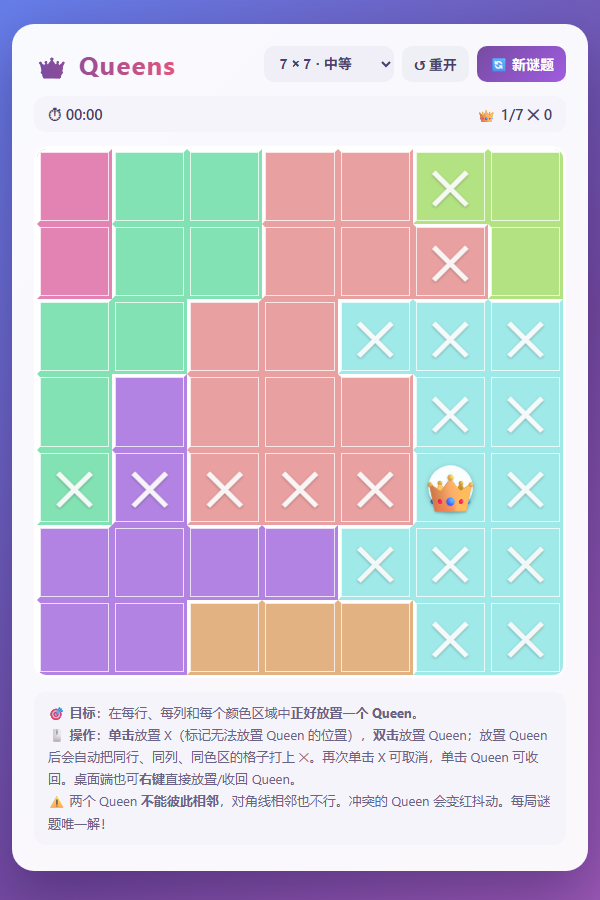
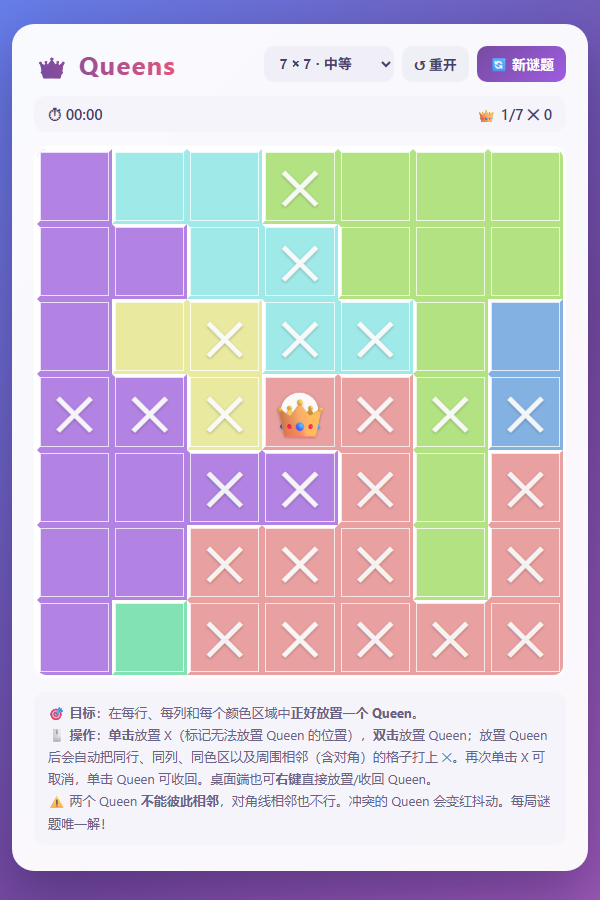
Auto-X also marks the 4 diagonal neighbors (8-neighborhood)

diff --git a/index.html b/index.html
@@ -194,7 +194,7 @@
   </div>
   <p class="rules">
     🎯 <b>目标</b>：在每行、每列和每个颜色区域中<b>正好放置一个 Queen</b>。<br>
-    🖱 <b>操作</b>：<b>单击</b>放置 X（标记无法放置 Queen 的位置），<b>双击</b>放置 Queen；放置 Queen 后会自动把同行、同列、同色区的格子打上 ✕。再次单击 X 可取消，单击 Queen 可收回。桌面端也可<b>右键</b>直接放置/收回 Queen。<br>
+    🖱 <b>操作</b>：<b>单击</b>放置 X（标记无法放置 Queen 的位置），<b>双击</b>放置 Queen；放置 Queen 后会自动把同行、同列、同色区以及周围相邻（含对角）的格子打上 ✕。再次单击 X 可取消，单击 Queen 可收回。桌面端也可<b>右键</b>直接放置/收回 Queen。<br>
     ⚠ 两个 Queen <b>不能彼此相邻</b>，对角线相邻也不行。冲突的 Queen 会变红抖动。每局谜题唯一解！
   </p>
 </div>
@@ -671,12 +671,14 @@ function computeConflicts() {
   return bad;
 }
 
-// 该格是否被某个 Queen 攻击（同行 / 同列 / 同色区）→ 自动打 ✕
+// 该格是否不能放 Queen（同行 / 同列 / 同色区 / 八邻域相邻含对角）→ 自动打 ✕
 function isAutoX(r, c) {
   const reg = puzzle.regions[r][c];
   for (const qk of queens) {
     const qr = (qk / N) | 0, qc = qk % N;
     if (qr === r || qc === c || puzzle.regions[qr][qc] === reg) return true;
+    // 八邻域（上下左右 + 四个斜角）都不能放
+    if (Math.abs(qr - r) <= 1 && Math.abs(qc - c) <= 1) return true;
   }
   return false;
 }
